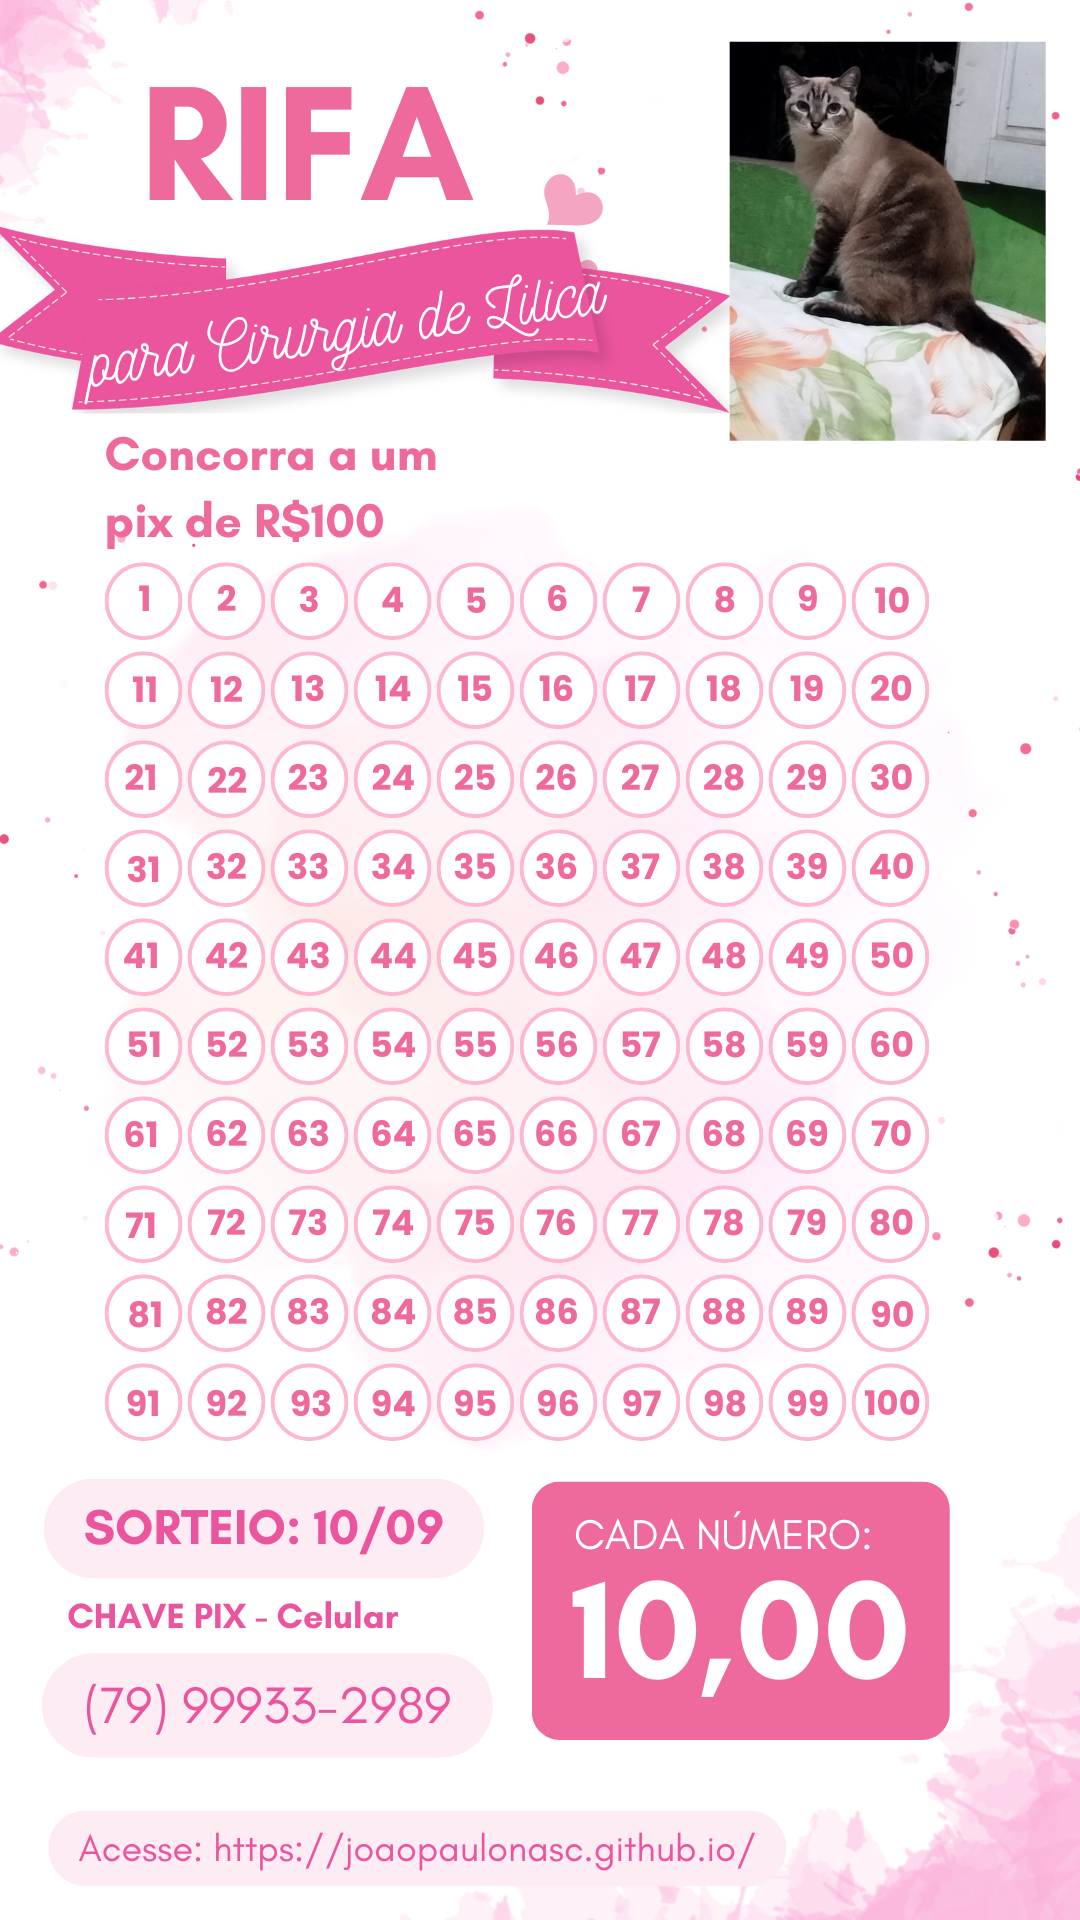
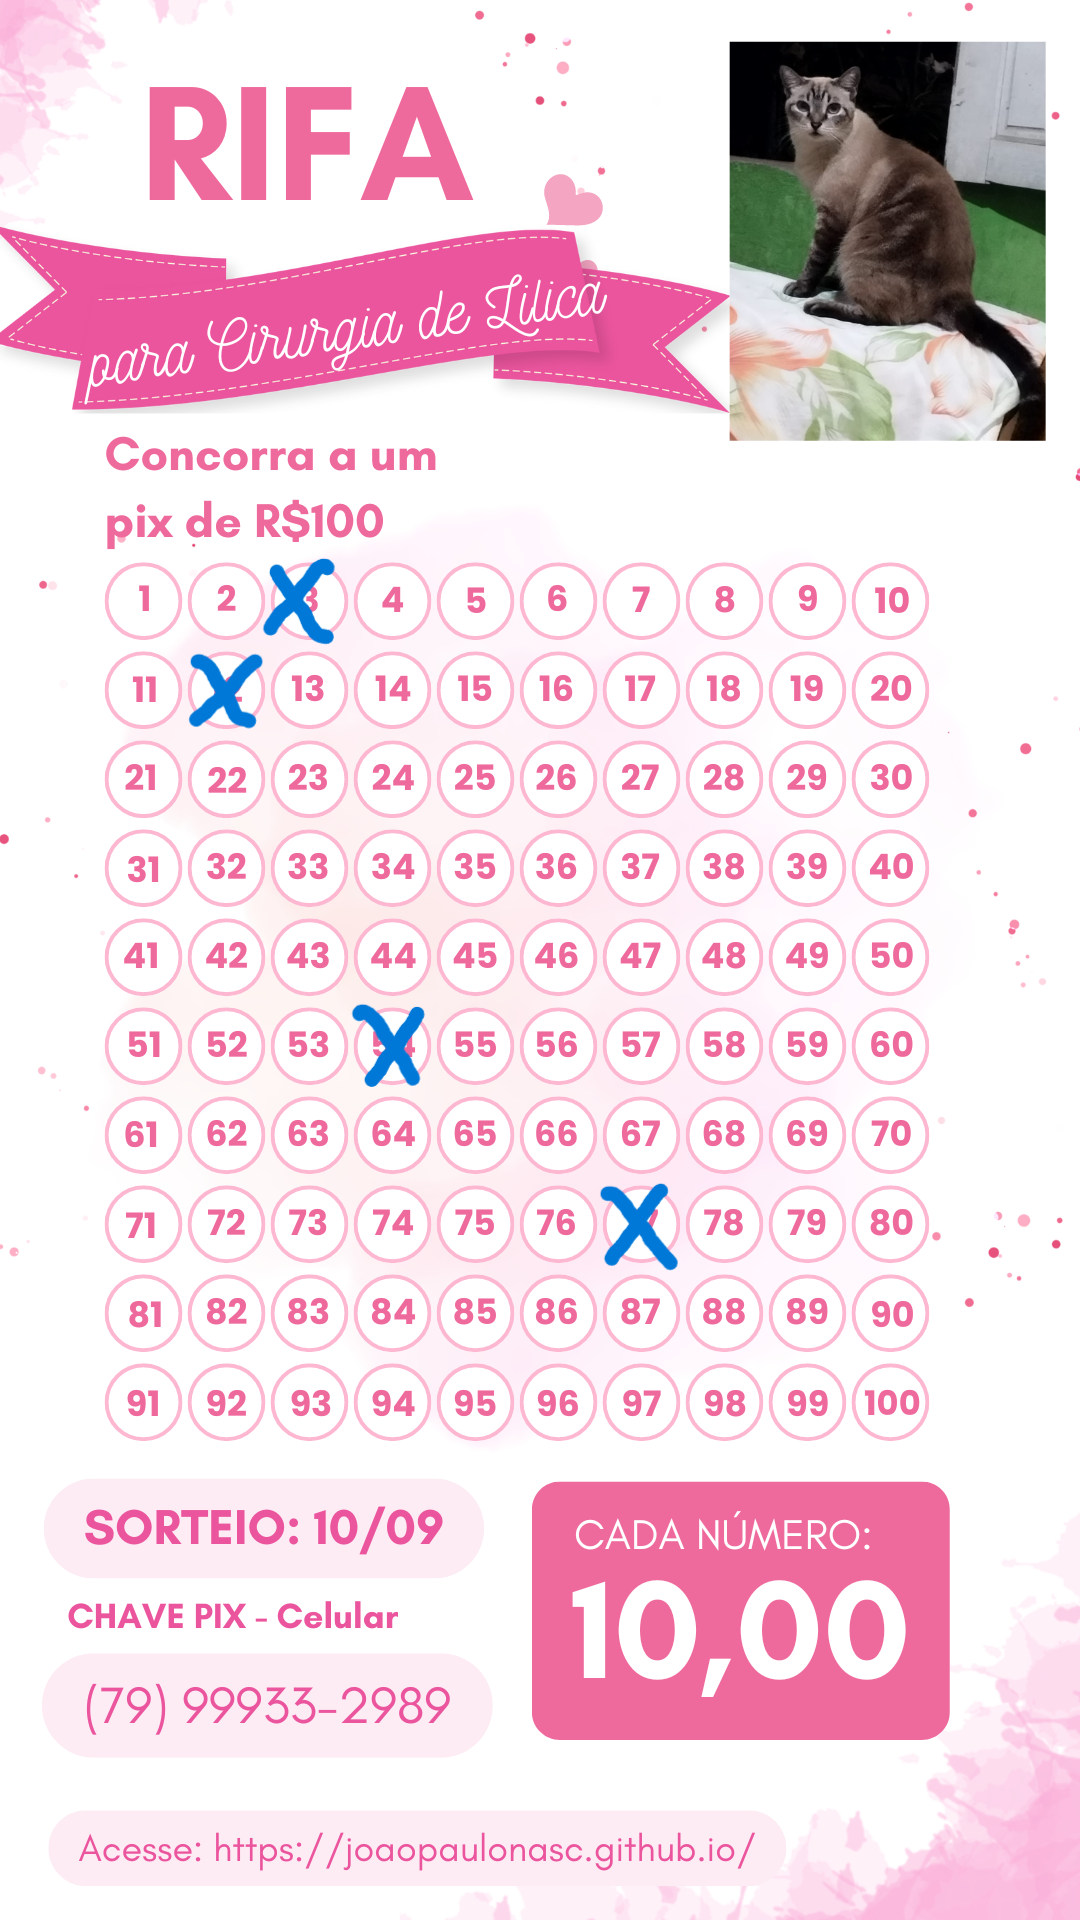
atualizacoesid5foto

diff --git a/index.html b/index.html
@@ -75,6 +75,13 @@
           <td>R$ 10,00</td>
           <td>3</td>
         </tr>
+        <tr>
+          <td>5</td>
+          <td>16/08/2024</td>
+          <td>Thamirys</td>
+          <td>R$ 10,00</td>
+          <td>77</td>
+        </tr>
         <!-- Adicione mais linhas conforme necessário -->
       </table>
     </div>
